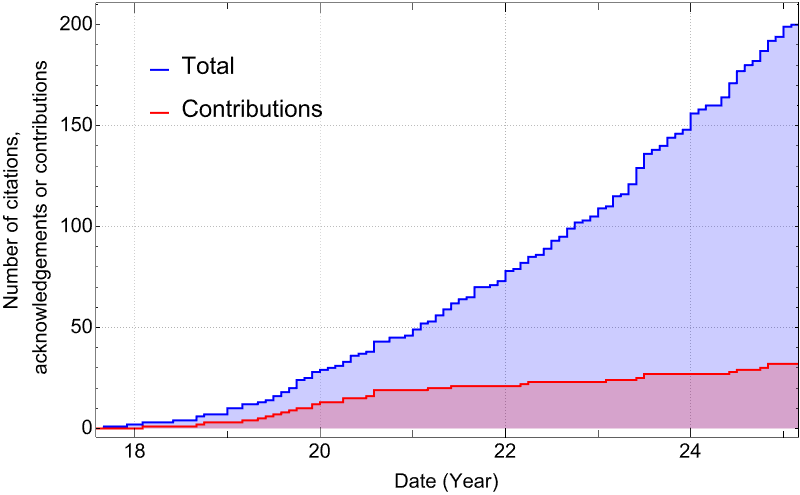
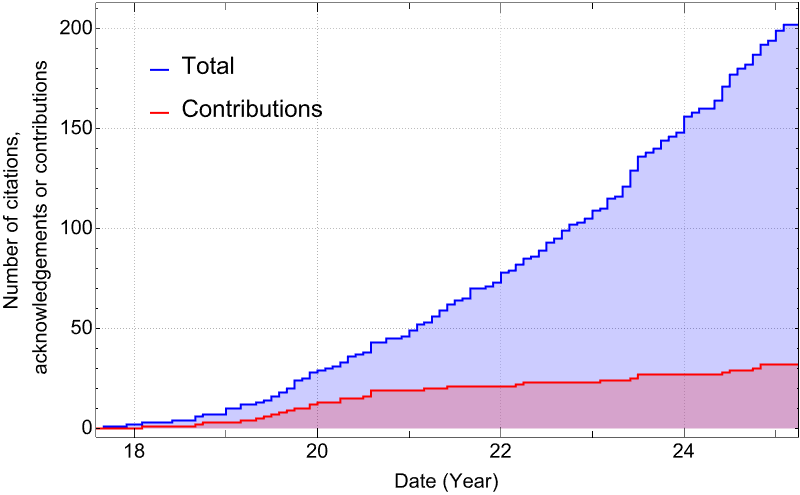
Add papers the cite the BHPToolkit

diff --git a/users.md b/users.md
@@ -19,6 +19,10 @@ The graph below show the accumulated citations to the Toolkit over time. The blu
 
 Below is a list of research papers that have used or extended the Toolkit. Papers that have contributed code or data to the Toolkit have a (*) after them.
 
+202\. "Fundamental Physics and Cosmology with TianQin", Jun Luo et al. [arXiv:2502.20138](https://arxiv.org/abs/2502.20138)
+
+201\. "Parametric solutions to the Kerr separatrix", Tammy Ng, Edward Teo, [arXiv:2502.18141](https://arxiv.org/abs/2502.18141)
+
 200\. "Lensing and wave optics in the strong field of a black hole", Juno C. L. Chan, Conor Dyson, Matilde Garcia, Jaime Redondo-Yuste, Luka Vujeva, [arXiv:2502.14073](https://arxiv.org/abs/2502.14073)
 
 199\. "Approach to the separatrix with eccentric orbits", Guillaume Lhost, Geoffrey Compère, [arXiv:2412.04249](https://arxiv.org/abs/2412.04249)
